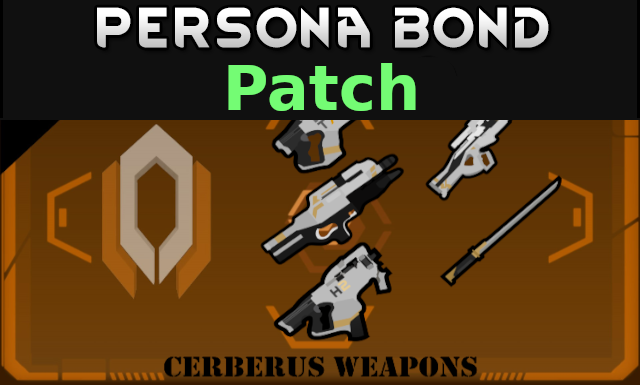
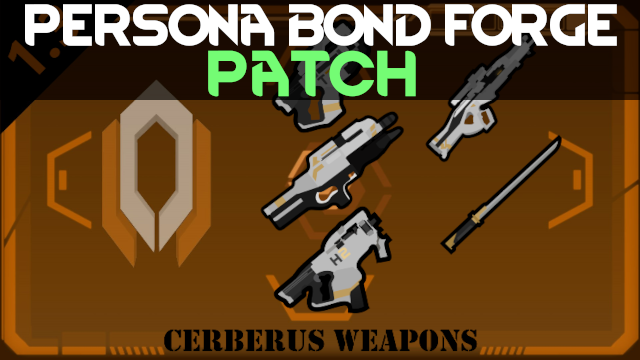
Update Preview.png and README.md

diff --git a/README.md b/README.md
@@ -2,6 +2,14 @@
 
 ![](https://github.com/Daria40K/Persona-Bond-Patch-for-Cerberus-Weapons/blob/main/About/Preview.png)
 
+## Required Mods
+- [Persona Bond Forge](https://steamcommunity.com/workshop/filedetails/?id=2178003816) (Steam)
+- [Cerberus Weapons](https://steamcommunity.com/sharedfiles/filedetails/?id=2761724281) (Steam)
+
+## Download
+- [Steam](https://steamcommunity.com/sharedfiles/filedetails/?id=2767921173)
+- [GitHub](https://github.com/Daria40K/Persona-Bond-Patch-for-Cerberus-Weapons/releases)
+
 ## Weapons Patch
 - Phantom sword
 - Cerberus SMG
